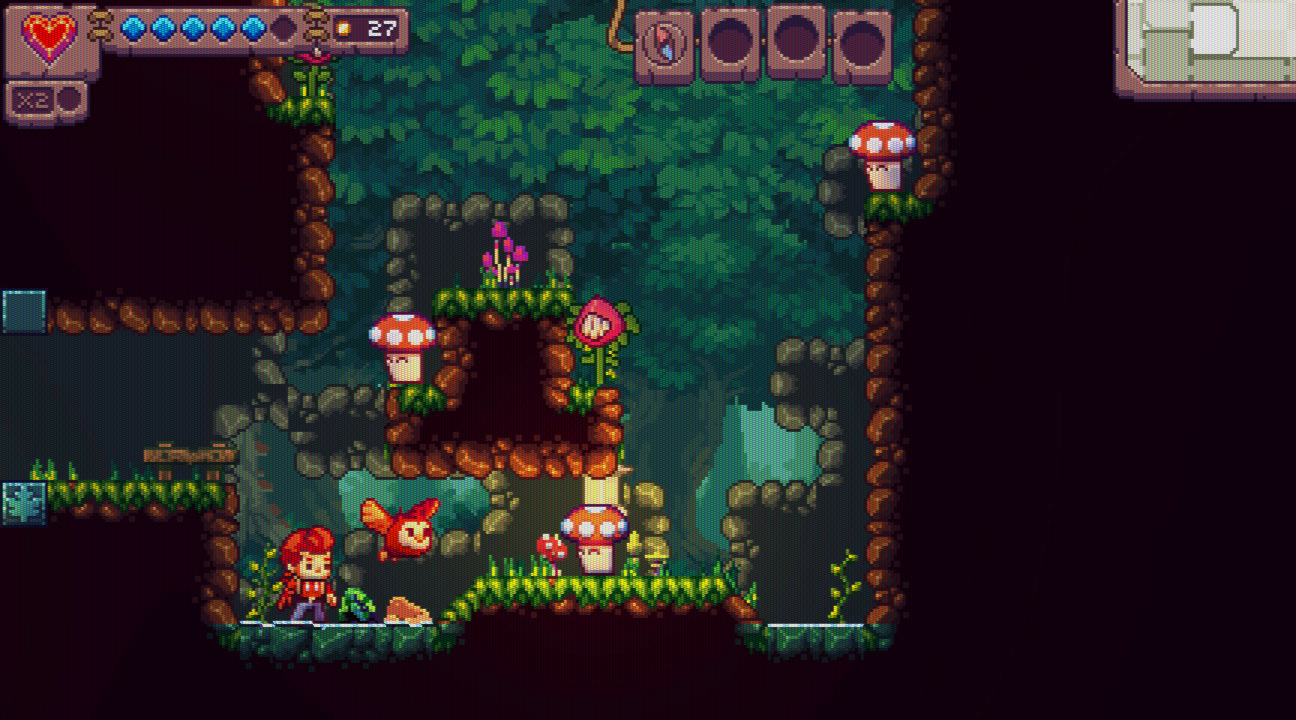
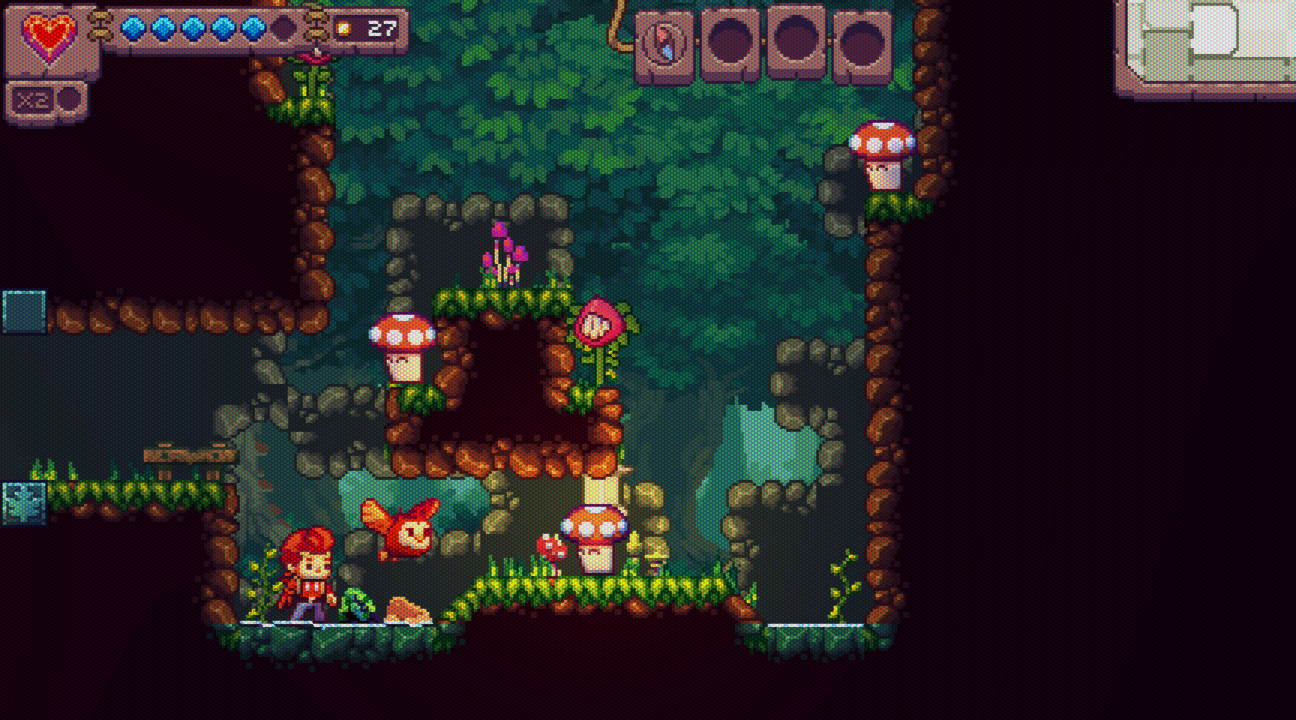
shadowMask with symbol 265 fps, 3.7ms

diff --git a/Game1/Input.cs b/Game1/Input.cs
@@ -1,0 +1,209 @@
+using System.Collections.Generic;
+using System.Linq;
+using Microsoft.Xna.Framework;
+using Microsoft.Xna.Framework.Input;
+
+namespace Game1 {
+    /// <summary>
+    /// A simple input handler. Add this as a component to your game to let it automatically update.
+    /// </summary>
+    public class Input : GameComponent {
+        #region Action Map
+
+        /// <summary>
+        /// A list of gamepad buttons and keyboard keys.
+        /// </summary>
+        public class List {
+
+            /// <summary>
+            /// Add the given button to the input list.
+            /// </summary>
+            public void Add(Buttons button) {
+                GamePadButtons.Add(button);
+            }
+
+            /// <summary>
+            /// Add the given key to the input list.
+            /// </summary>
+            public void Add(Keys key) {
+                KeyboardKeys.Add(key);
+            }
+
+            /// <summary>
+            /// List of GamePad buttons.
+            /// </summary>
+            internal readonly List<Buttons> GamePadButtons = new List<Buttons>();
+
+            /// <summary>
+            /// List of Keyboard keys.
+            /// </summary>
+            internal readonly List<Keys> KeyboardKeys = new List<Keys>();
+        }
+
+        /// <summary>
+        /// Check if any of the inputs registered for the given action is pressed.
+        /// </summary>
+        public static bool IsPressed(object action) {
+            return IsActionPressed(ActionMaps[action]);
+        }
+
+        /// <summary>
+        /// Check if any of the inputs registered for the given action is down.
+        /// </summary>
+        public static bool IsDown(object action) {
+            return IsActionDown(ActionMaps[action]);
+        }
+
+        /// <summary>
+        /// Check if any of the inputs registered for the given action is released.
+        /// </summary>
+        public static bool IsReleased(object action) {
+            return IsActionReleased(ActionMaps[action]);
+        }
+
+        private static bool IsActionPressed(List map) {
+            return map.KeyboardKeys.Any(IsPressed) ||
+                   map.GamePadButtons.Any(IsPressed);
+        }
+
+        private static bool IsActionDown(List map) {
+            return map.KeyboardKeys.Any(IsDown) ||
+                   map.GamePadButtons.Any(IsDown);
+        }
+
+        private static bool IsActionReleased(List map) {
+            return map.KeyboardKeys.Any(IsReleased) ||
+                   map.GamePadButtons.Any(IsReleased);
+        }
+
+        private static Dictionary<object, List> ActionMaps { get; set; }
+
+        /// <summary>
+        /// Add or update the inputlist of the given action.
+        /// </summary>
+        /// <param name="action"></param>
+        /// <param name="list"></param>
+        public static void SetAction(object action, List list) {
+            ActionMaps[action] = list;
+        }
+
+        /// <summary>
+        /// Remove the given action.
+        /// </summary>
+        /// <param name="action"></param>
+        public static void RemoveAction(object action) {
+            ActionMaps.Remove(action);
+        }
+
+        /// <summary>
+        /// Clear all actions.
+        /// </summary>
+        public static void ClearActions() {
+            ActionMaps.Clear();
+        }
+
+        #endregion
+
+        #region Constructor
+
+        /// <summary>Create a new Input object. Should be done only once in a game.</summary>
+        /// <remarks>
+        /// Recommended use in main Game class: <c>Components.Add(new Input(this));</c>
+        /// Alternatively keep a reference to this instance and update it manually every frame.
+        /// </remarks>
+        public Input(Game game) : base(game) {
+            _keyboardState = Keyboard.GetState();
+            ActionMaps = new Dictionary<object, List>();
+        }
+
+        #endregion
+
+        #region Update
+
+        /// <summary>
+        /// Updates keyboard and gamepad states.
+        /// </summary>
+        /// <param name="gameTime"></param>
+        public override void Update(GameTime gameTime) {
+            _lastKeyboardState = _keyboardState;
+            _keyboardState = Keyboard.GetState();
+
+            _lastGamePadState = _gamePadState;
+            _gamePadState = GamePad.GetState(PlayerIndex.One);
+
+            base.Update(gameTime);
+        }
+
+        #endregion
+
+        #region Keyboard
+
+        private static KeyboardState _keyboardState;
+        private static KeyboardState _lastKeyboardState;
+
+        /// <summary>
+        /// Check if the given key is released this frame.
+        /// </summary>
+        public static bool IsReleased(Keys key) {
+            return _keyboardState.IsKeyUp(key) && _lastKeyboardState.IsKeyDown(key);
+        }
+
+        /// <summary>
+        /// Check if the given key is pressed this frame.
+        /// </summary>
+        public static bool IsPressed(Keys key) {
+            return _keyboardState.IsKeyDown(key) && _lastKeyboardState.IsKeyUp(key);
+        }
+
+        /// <summary>
+        /// Check if the given key is down.
+        /// </summary>
+        public static bool IsDown(Keys key) {
+            return _keyboardState.IsKeyDown(key);
+        }
+
+        #endregion
+
+        #region GamePad
+
+        private static GamePadState _gamePadState;
+        private static GamePadState _lastGamePadState;
+
+        /// <summary>
+        /// Check if the given button is released this frame.
+        /// </summary>
+        public static bool IsReleased(Buttons button) {
+            return _gamePadState.IsButtonUp(button) && _lastGamePadState.IsButtonDown(button);
+        }
+
+        /// <summary>
+        /// Check if the given button is pressed this frame.
+        /// </summary>
+        public static bool IsPressed(Buttons button) {
+            return _gamePadState.IsButtonDown(button) && _lastGamePadState.IsButtonUp(button);
+        }
+
+        /// <summary>
+        /// Check if the given button is down.
+        /// </summary>
+        public static bool IsDown(Buttons button) {
+            return _gamePadState.IsButtonDown(button);
+        }
+
+        /// <summary>
+        /// Get the position of the left thumbstick.
+        /// </summary>
+        public static Vector2 LeftThumbStick() {
+            return _gamePadState.ThumbSticks.Left;
+        }
+
+        /// <summary>
+        /// Get the position of the Right thumbstick.
+        /// </summary>
+        public static Vector2 RightThumbStick() {
+            return _gamePadState.ThumbSticks.Right;
+        }
+
+        #endregion
+    }
+}

diff --git a/Game1/Game1.cs b/Game1/Game1.cs
@@ -17,7 +17,8 @@ namespace Game1
 
         private Texture2D _texture;
         private Effect _effect;
-        
+        private bool _enabled = true;
+
         public Game1()
         {
             _graphics = new GraphicsDeviceManager(this);
@@ -29,6 +30,7 @@ namespace Game1
         protected override void Initialize()
         {
             Components.Add(new FrameRateCounter(this));
+            Components.Add(new Input(this));
             base.Initialize();
         }
 
@@ -61,9 +63,9 @@ namespace Game1
             _effect.Parameters["bloomAmount"]?.SetValue(0.15f);
             _effect.Parameters["shape"]?.SetValue(2.0f);
 
-            _effect.Parameters["textureSize"].SetValue(new Vector2(_texture.Width, _texture.Height));
-            _effect.Parameters["videoSize"].SetValue(new Vector2(_texture.Width, _texture.Height));
-            _effect.Parameters["outputSize"].SetValue(new Vector2(_graphics.PreferredBackBufferWidth, _graphics.PreferredBackBufferHeight));
+            _effect.Parameters["textureSize"]?.SetValue(new Vector2(_texture.Width, _texture.Height));
+            _effect.Parameters["videoSize"]?.SetValue(new Vector2(_texture.Width, _texture.Height));
+            _effect.Parameters["outputSize"]?.SetValue(new Vector2(_graphics.PreferredBackBufferWidth, _graphics.PreferredBackBufferHeight));
 
             var vp = GraphicsDevice.Viewport;
             var output = new RenderTarget2D(GraphicsDevice, vp.Width, vp.Height);
@@ -81,8 +83,10 @@ namespace Game1
 
         protected override void Update(GameTime gameTime)
         {
-            if (GamePad.GetState(PlayerIndex.One).Buttons.Back == ButtonState.Pressed || Keyboard.GetState().IsKeyDown(Keys.Escape))
+            if (Input.IsDown(Keys.Escape))
                 Exit();
+            if (Input.IsPressed(Keys.T))
+                _enabled = !_enabled;
 
             base.Update(gameTime);
         }
@@ -91,7 +95,7 @@ namespace Game1
         {
             GraphicsDevice.Clear(Color.CornflowerBlue);
 
-            _spriteBatch.Begin(effect: _effect);
+            _spriteBatch.Begin(effect: _enabled ? _effect : null);
             _spriteBatch.Draw(_texture, Vector2.Zero, Color.White);
             _spriteBatch.End();
 
